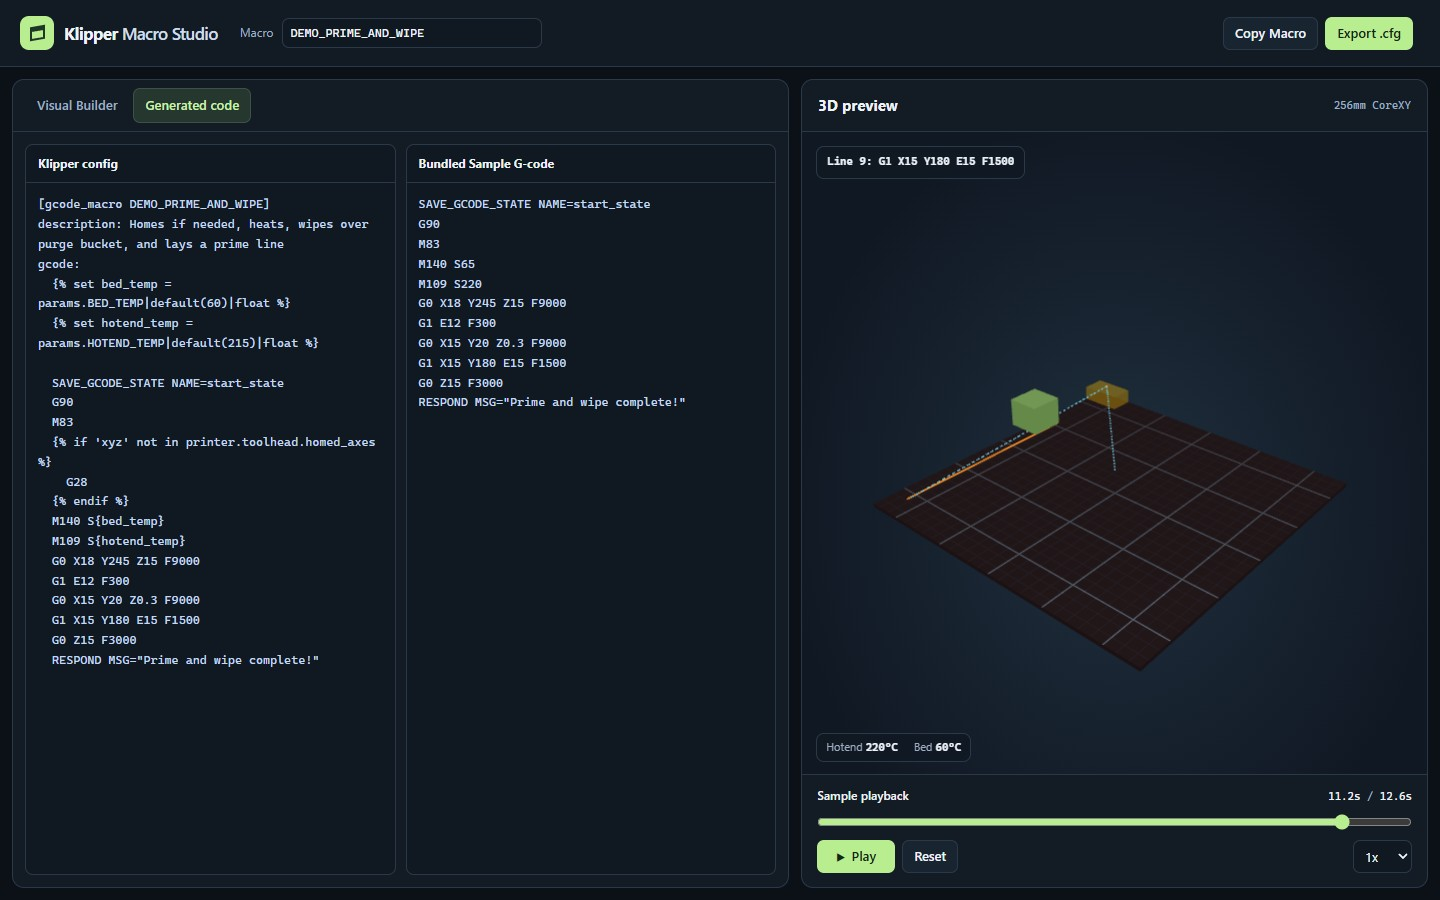
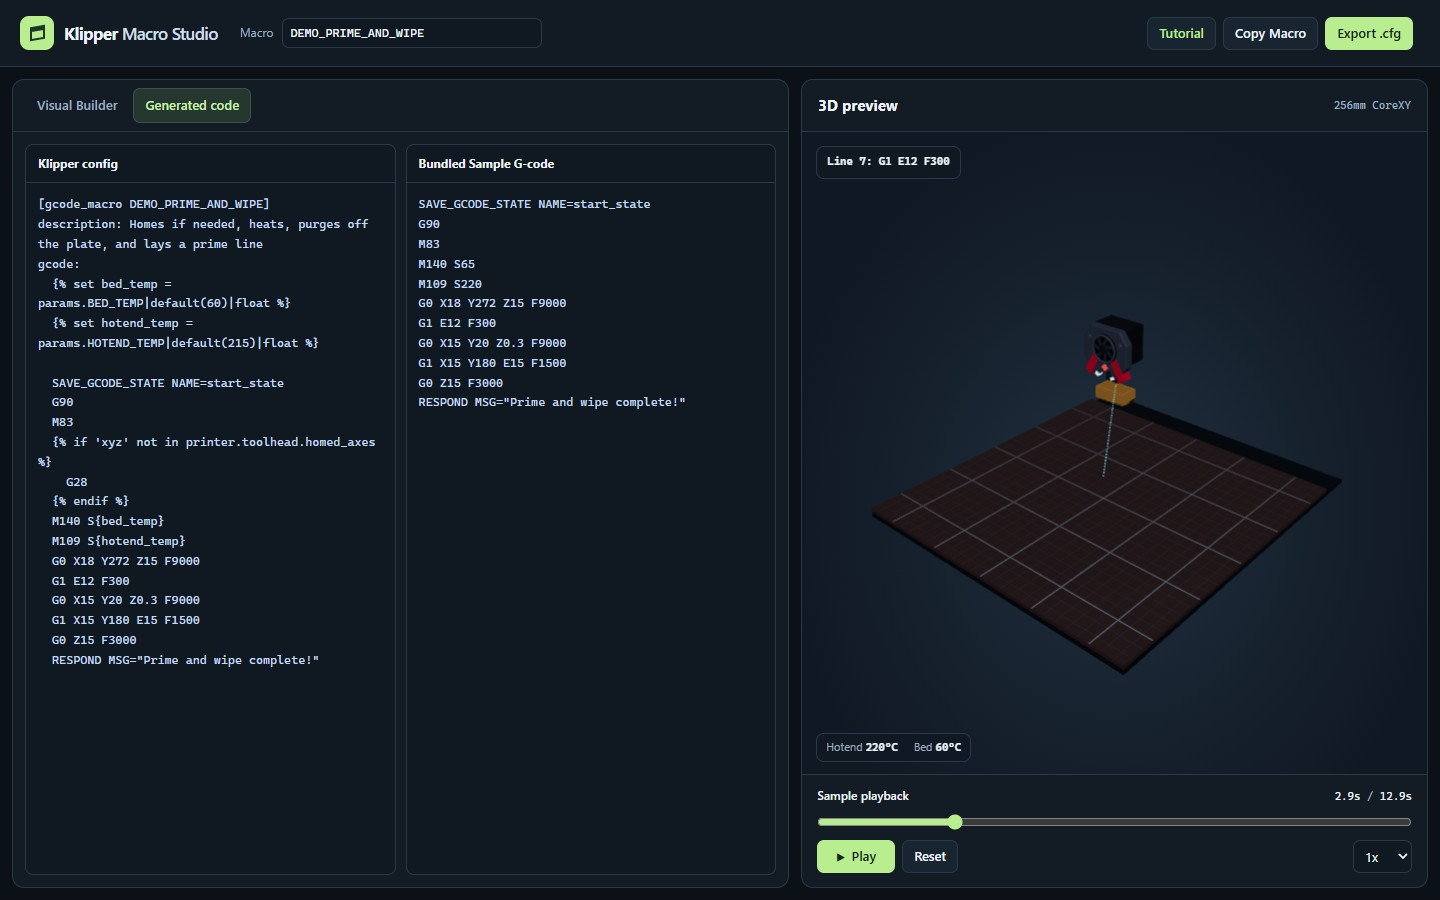
Model the toolhead and off-plate purge bucket

diff --git a/src/components/PrinterViewport.tsx b/src/components/PrinterViewport.tsx
@@ -3,6 +3,7 @@ import { Canvas, useFrame, useThree } from "@react-three/fiber";
 import { Grid, Line, OrbitControls } from "@react-three/drei";
 import * as THREE from "three";
 import { PrinterProfile, SimSegment, Vec3 } from "../sim/types";
+import { ToolheadModel } from "./ToolheadModel";
 
 const toThree = (p: Vec3): [number, number, number] => [p.x, p.z, -p.y];
 
@@ -54,8 +55,13 @@ function PrinterScene({
     [segments, currentTime]
   );
 
-  const bedW = Math.max(10, profile.axisMax.x - profile.axisMin.x);
-  const bedD = Math.max(10, profile.axisMax.y - profile.axisMin.y);
+  const plate = profile.printArea ?? { min: profile.axisMin, max: profile.axisMax };
+  const bedW = Math.max(10, plate.max.x - plate.min.x);
+  const bedD = Math.max(10, plate.max.y - plate.min.y);
+  const bedX = (plate.min.x + plate.max.x) / 2;
+  const bedY = (plate.min.y + plate.max.y) / 2;
+  const travelW = Math.max(10, profile.axisMax.x - profile.axisMin.x);
+  const travelD = Math.max(10, profile.axisMax.y - profile.axisMin.y);
   const bedH = Math.max(10, profile.axisMax.z - profile.axisMin.z);
   const centerX = (profile.axisMin.x + profile.axisMax.x) / 2;
   const centerY = (profile.axisMin.y + profile.axisMax.y) / 2;
@@ -64,11 +70,12 @@ function PrinterScene({
   const { camera, size } = useThree();
   useLayoutEffect(() => {
     const aspect = size.width / Math.max(1, size.height);
-    const distance = Math.hypot(bedW, bedD) * .64 / (Math.tan(Math.PI / 8) * Math.min(1, Math.max(.1, aspect)));
+    const distance = Math.hypot(Math.max(bedW, travelW), Math.max(bedD, travelD)) * .64 /
+      (Math.tan(Math.PI / 8) * Math.min(1, Math.max(.1, aspect)));
     const direction = new THREE.Vector3(.94, .83, 1.1).normalize().multiplyScalar(distance);
     camera.position.set(...target).add(direction);
     camera.lookAt(...target);
-  }, [camera, size.width, size.height, target, bedW, bedD]);
+  }, [camera, size.width, size.height, target, bedW, bedD, travelW, travelD]);
 
   const bedHeatRatio = Math.min(1, Math.max(0, (activeState.bedTemp - 30) / 80));
   const bedColor = useMemo(
@@ -83,13 +90,17 @@ function PrinterScene({
       <ambientLight intensity={0.65} />
       <directionalLight position={[180, 260, 180]} intensity={1.1} />
 
-      <mesh position={[centerX, -1.5, -centerY]}>
+      {profile.printArea && <mesh position={[centerX, -6, -centerY]}>
+        <boxGeometry args={[travelW, 3, travelD]} />
+        <meshStandardMaterial color="#151e2a" roughness={.82} />
+      </mesh>}
+      <mesh name="Print plate" position={[bedX, -1.5, -bedY]}>
         <boxGeometry args={[bedW, 3, bedD]} />
         <meshStandardMaterial color={bedColor} roughness={0.6} />
       </mesh>
 
       <Grid
-        position={[centerX, 0.05, -centerY]}
+        position={[bedX, 0.05, -bedY]}
         args={[bedW, bedD]}
         cellSize={10}
         sectionSize={50}
@@ -103,10 +114,35 @@ function PrinterScene({
         const w = Math.max(1, f.max.x - f.min.x);
         const d = Math.max(1, f.max.y - f.min.y);
         const h = Math.max(1, f.max.z - f.min.z);
+        const x = (f.min.x + f.max.x) / 2;
+        const z = -(f.min.y + f.max.y) / 2;
+        if (f.kind === "purge_bucket") {
+          const wall = Math.min(2.2, w / 3, d / 3);
+          return (
+            <group key={f.id} name={f.name} position={[x, f.min.z, z]}>
+              <mesh position-y={wall / 2}>
+                <boxGeometry args={[w, wall, d]} />
+                <meshStandardMaterial color="#3d3028" roughness={.85} />
+              </mesh>
+              {[-1, 1].map(side => (
+                <group key={side}>
+                  <mesh position={[0, h / 2, side * (d - wall) / 2]}>
+                    <boxGeometry args={[w, h, wall]} />
+                    <meshStandardMaterial color={f.color} roughness={.57} />
+                  </mesh>
+                  <mesh position={[side * (w - wall) / 2, h / 2, 0]}>
+                    <boxGeometry args={[wall, h, d - 2 * wall]} />
+                    <meshStandardMaterial color={f.color} roughness={.57} />
+                  </mesh>
+                </group>
+              ))}
+            </group>
+          );
+        }
         return (
           <mesh
             key={f.id}
-            position={[(f.min.x + f.max.x) / 2, (f.min.z + f.max.z) / 2, -(f.min.y + f.max.y) / 2]}
+            position={[x, (f.min.z + f.max.z) / 2, z]}
           >
             <boxGeometry args={[w, h, d]} />
             <meshStandardMaterial color={f.color} transparent opacity={0.55} />
@@ -131,18 +167,7 @@ function PrinterScene({
       })}
 
       <group position={toThree(activeState.pos)}>
-        <mesh position={[0, 5, 0]} rotation={[Math.PI, 0, 0]}>
-          <coneGeometry args={[3.5, 10, 16]} />
-          <meshStandardMaterial
-            color={nozzleHot ? "#fb923c" : "#cbd5e1"}
-            emissive={nozzleHot ? "#ea580c" : "#000000"}
-            emissiveIntensity={nozzleHot ? 0.6 : 0}
-          />
-        </mesh>
-        <mesh position={[0, 22, 0]}>
-          <boxGeometry args={[28, 24, 28]} />
-          <meshStandardMaterial color="#a5d782" metalness={0.2} roughness={0.45} />
-        </mesh>
+        <ToolheadModel hot={nozzleHot} />
       </group>
 
       <OrbitControls target={target} makeDefault />

diff --git a/src/components/ToolheadModel.tsx b/src/components/ToolheadModel.tsx
@@ -1,0 +1,85 @@
+import { useMemo } from "react";
+import { Path, Shape } from "three";
+
+const face = [
+  [-25, 30], [-25, 51], [-17, 62], [17, 62], [25, 51], [25, 30],
+  [18, 20], [9, 13], [6, 25], [-6, 25], [-9, 13], [-18, 20],
+];
+const extrude = { depth: 7, bevelEnabled: true, bevelSegments: 2, steps: 1, bevelSize: 1.2, bevelThickness: 1 };
+
+export function ToolheadModel({ hot }: { hot: boolean }) {
+  const housing = useMemo(() => {
+    const shape = new Shape();
+    face.forEach(([x, y], i) => i === 0 ? shape.moveTo(x, y) : shape.lineTo(x, y));
+    shape.closePath();
+    const fanOpening = new Path();
+    fanOpening.absarc(0, 43, 14.6, 0, Math.PI * 2);
+    shape.holes.push(fanOpening);
+    return shape;
+  }, []);
+
+  return (
+    <group name="Stealthburner-style toolhead">
+      {/* The nozzle tip is the toolpath origin. */}
+      <mesh position={[0, 4, 0]}>
+        <cylinderGeometry args={[3.3, .7, 8, 6]} />
+        <meshStandardMaterial color={hot ? "#f3b775" : "#b89964"} metalness={.72} roughness={.32}
+          emissive={hot ? "#ad4a19" : "#000000"} emissiveIntensity={hot ? .25 : 0} />
+      </mesh>
+      <mesh position={[0, 10, 0]}>
+        <boxGeometry args={[14, 8, 13]} />
+        <meshStandardMaterial color="#313139" roughness={.8} />
+      </mesh>
+      <mesh position={[0, 45, -5]}>
+        <boxGeometry args={[40, 36, 23]} />
+        <meshStandardMaterial color="#20232c" roughness={.74} />
+      </mesh>
+      <mesh position={[0, 0, 8]}>
+        <extrudeGeometry args={[housing, extrude]} />
+        <meshStandardMaterial color="#465061" roughness={.55} />
+      </mesh>
+      <group position={[0, 43, 15]}>
+        <mesh rotation={[Math.PI / 2, 0, 0]}>
+          <cylinderGeometry args={[14.5, 14.5, 5, 40]} />
+          <meshStandardMaterial color="#10141e" roughness={.84} />
+        </mesh>
+        <mesh position-z={2.8}>
+          <torusGeometry args={[13.3, 1.2, 8, 40]} />
+          <meshStandardMaterial color="#596273" metalness={.35} roughness={.48} />
+        </mesh>
+        {Array.from({ length: 7 }, (_, index) => (
+          <group key={index} rotation-z={index * Math.PI * 2 / 7}>
+            <mesh position={[1.8, 7.9, 2.7]} rotation-z={-.48}>
+              <boxGeometry args={[3.2, 8.4, .8]} />
+              <meshStandardMaterial color="#383e4c" roughness={.64} />
+            </mesh>
+          </group>
+        ))}
+        <mesh position-z={3.35} rotation={[Math.PI / 2, 0, 0]}>
+          <cylinderGeometry args={[4.5, 4.5, 1.6, 20]} />
+          <meshStandardMaterial color="#252c37" roughness={.55} />
+        </mesh>
+      </group>
+      {[-1, 1].map(side => (
+        <group key={side}>
+          <mesh position={[side * 16, 24, 11.5]} rotation-z={side * .52}>
+            <boxGeometry args={[8.5, 22, 10]} />
+            <meshStandardMaterial color="#cc3442" roughness={.46} />
+          </mesh>
+          <mesh position={[side * 9.5, 15, 14.2]} rotation-z={side * .45}>
+            <boxGeometry args={[4.6, 3, 6]} />
+            <meshStandardMaterial color="#e6eef0" emissive="#9ee4ff" emissiveIntensity={.65} />
+          </mesh>
+          <mesh position={[side * 19, 51, 15.8]} rotation={[Math.PI / 2, 0, 0]}>
+            <cylinderGeometry args={[1.55, 1.55, 1.1, 10]} />
+            <meshStandardMaterial color="#aeb6c6" metalness={.73} roughness={.4} />
+          </mesh>
+        </group>
+      ))}
+      <mesh position={[0, 24, 16]} rotation-z={Math.PI / 4}>
+        <boxGeometry args={[5.4, 5.4, 1.7]} />
+        <meshStandardMaterial color="#ff5a62" emissive="#c62234" emissiveIntensity={.75} />
+      </mesh>
+    </group>
+  );
+}

diff --git a/src/App.tsx b/src/App.tsx
@@ -20,7 +20,8 @@ const tourSteps = createTourSteps(browserDemo);
 const DEFAULT_PROFILE: PrinterProfile = {
   name: "256mm CoreXY",
   axisMin: { x: 0, y: 0, z: 0 },
-  axisMax: { x: 256, y: 256, z: 256 },
+  axisMax: { x: 256, y: 284, z: 256 },
+  printArea: { min: { x: 0, y: 0 }, max: { x: 256, y: 256 } },
   homePos: { x: 128, y: 128, z: 0 },
   minExtrudeTemp: 170,
   maxVelocity: 300,
@@ -28,9 +29,10 @@ const DEFAULT_PROFILE: PrinterProfile = {
     {
       id: "purge",
       name: "Purge Bucket",
-      min: { x: 0, y: 236, z: 0 },
-      max: { x: 35, y: 256, z: 12 },
-      color: "#eab308",
+      min: { x: 0, y: 262, z: 0 },
+      max: { x: 35, y: 282, z: 12 },
+      color: "#b48540",
+      kind: "purge_bucket",
     },
   ],
 };
@@ -47,7 +49,7 @@ const DEFAULT_INITIAL: SimInitialState = {
 
 const DEFAULT_MACRO: MacroDocument = {
   name: "DEMO_PRIME_AND_WIPE",
-  description: "Homes if needed, heats, wipes over purge bucket, and lays a prime line",
+  description: "Homes if needed, heats, purges off the plate, and lays a prime line",
   params: [
     { name: "BED_TEMP", defaultValue: "60", type: "float" },
     { name: "HOTEND_TEMP", defaultValue: "215", type: "float" },
@@ -64,7 +66,7 @@ const DEFAULT_MACRO: MacroDocument = {
     },
     { id: "b4", type: "temp", heater: "bed", wait: false, temp: "bed_temp" },
     { id: "b5", type: "temp", heater: "extruder", wait: true, temp: "hotend_temp" },
-    { id: "b6", type: "move", rapid: true, x: "18", y: "245", z: "15", f: "9000" },
+    { id: "b6", type: "move", rapid: true, x: "18", y: "272", z: "15", f: "9000" },
     { id: "b7", type: "move", rapid: false, e: "12", f: "300" },
     { id: "b8", type: "move", rapid: true, x: "15", y: "20", z: "0.3", f: "9000" },
     { id: "b9", type: "move", rapid: false, x: "15", y: "180", e: "15", f: "1500" },

diff --git a/src/sim/types.ts b/src/sim/types.ts
@@ -10,12 +10,14 @@ export interface PrinterFixture {
   min: Vec3;
   max: Vec3;
   color: string;
+  kind?: "purge_bucket";
 }
 
 export interface PrinterProfile {
   name: string;
   axisMin: Vec3;
   axisMax: Vec3;
+  printArea?: { min: Pick<Vec3, "x" | "y">; max: Pick<Vec3, "x" | "y"> };
   homePos: Vec3;
   minExtrudeTemp: number;
   maxVelocity: number;

diff --git a/README.md b/README.md
@@ -21,6 +21,8 @@ Latest release: [v0.1.1](https://github.com/newbwormy/klipper-macro-studio/relea
 
 The first-run tutorial walks through building a macro, finding commands, previewing motion, and exporting a config. Use **Tutorial** in the header to replay it.
 
+The sample printer shows a Stealthburner-style toolhead over a 256 × 256 mm print plate, with extra Y travel to reach the purge bucket behind the plate.
+
 Try the visual builder, download a `.cfg` file, and play the bundled prime-and-wipe simulation. Editing the macro switches browser playback to its literal G-code. The desktop app evaluates Jinja2 and connects to Moonraker.
 
 To preview locally, run `npm ci` and `npm run dev`, then open the URL printed by Vite. To publish the demo, set **Settings → Pages → Source** to **GitHub Actions**, then run **Deploy browser demo** from the Actions tab.
